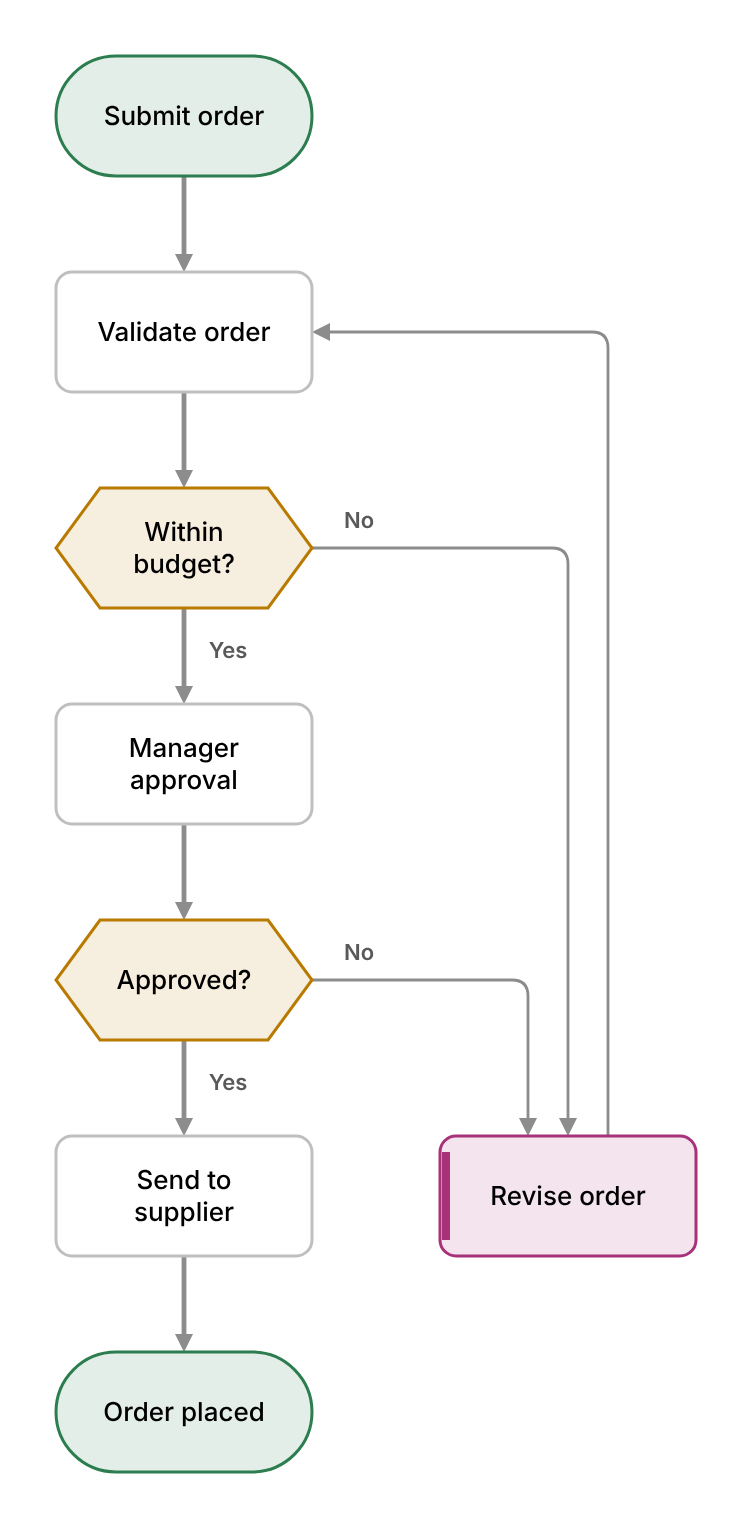
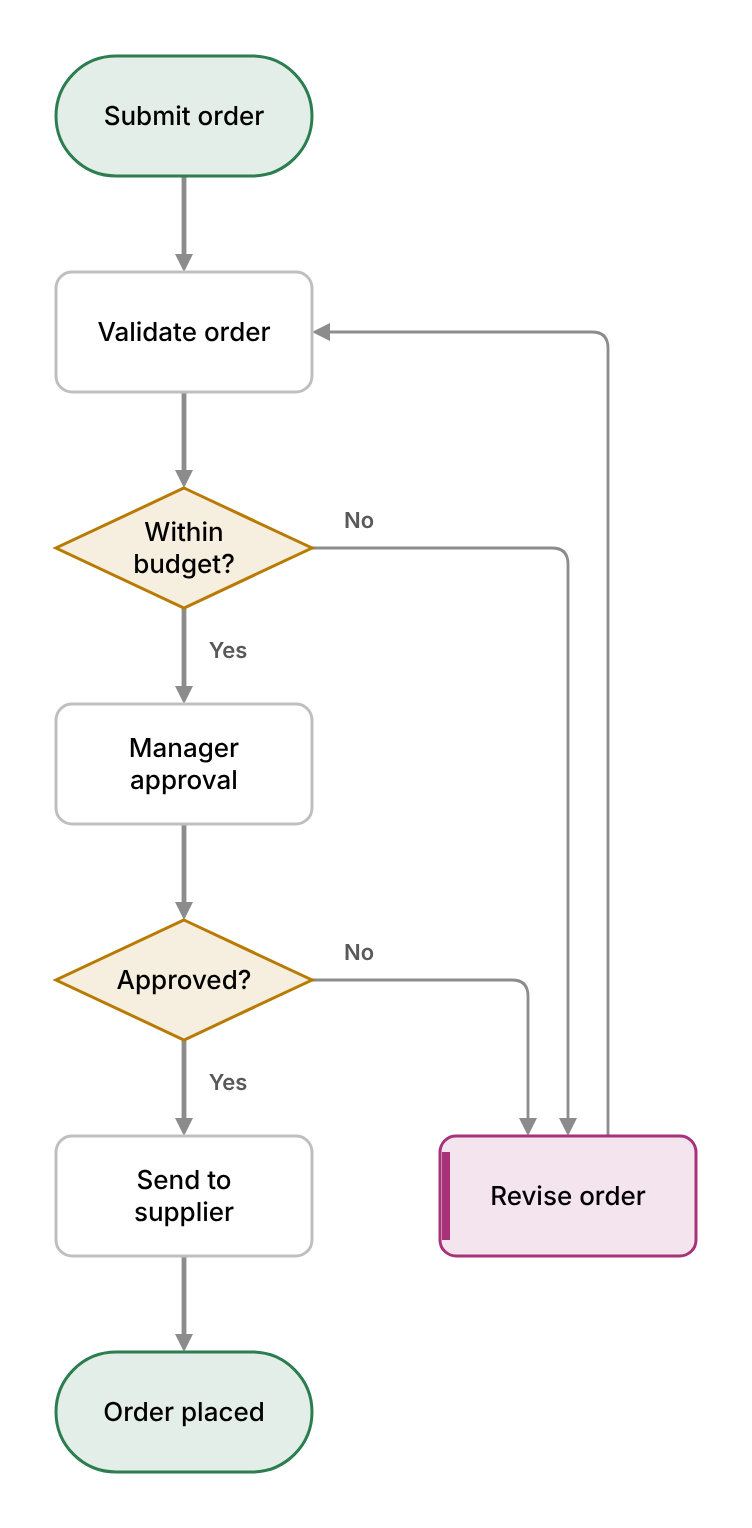
Bring Merlive's page up to what Merlive draws today
Since the page's pictures were taken (victorsaly/merlive at 7c87daf), Merlive
has learnt to draw state diagrams and sequence diagrams, to keep the shape an
author drew, the icons in a label and what a style means, and to read more of
a flowchart. The page still said "flowcharts only".

- The before and after is three rows now, one for each kind it draws: the
  purchase order flowchart, an order's states and the raising of an order as
  a sequence, each as Mermaid 11.16.1 draws it and as Merlive 0.1.0 at
  affce21 does, in the design its --setup read from this site's stylesheet.
  All six pictures carry their origin. The flowchart's decisions are
  rhombuses now, no bigger than the boxes round them.
- The page Merlive wrote for the flowchart is carried again as it writes it
  today.
- A hunk for the three kinds, two lines for shapes, icons and styling, and
  "What it does not do yet" put right: class diagrams, timelines and charts
  are what is left as Mermaid.
- The hub entry and the page's description say what it draws.

Not changed: the mark, the wordmark, DESIGN.md, and the line "Mermaid
flowcharts, placed by rule and made live", which is the skill's own.

Not built here: there is no node_modules and installs are refused, so
`astro check` and the build have not run. Looked at through a stand-in at a
true 390 and at 1200 wide.

Claude-Session: https://claude.ai/code/session_019UYU4aaDk1EijiFUteTqTH

Changed region(s): [[0.0612, 0.5844, 0.4282, 0.7075], [0.0612, 0.3076, 0.4282, 0.3999]]

diff --git a/public/merlive/example/index.html b/public/merlive/example/index.html
@@ -13,6 +13,10 @@
 [data-kind="step"] .mv-shape{fill:var(--mv-kf-step);stroke:var(--mv-k-step)}
 [data-kind="decision"] .mv-shape{fill:var(--mv-kf-decision);stroke:var(--mv-k-decision)}
 [data-kind="rework"] .mv-shape{fill:var(--mv-kf-rework);stroke:var(--mv-k-rework)}
+.mv-node .mv-detail{fill:none}
+[data-outline~="dashed"] .mv-shape{stroke-dasharray:5 4}
+[data-outline~="heavy"] .mv-shape{stroke-width:2.6}
+.mv-icon{fill:none;stroke:var(--mv-text);stroke-width:1.5;stroke-linecap:round;stroke-linejoin:round}
 .mv-node text{font-size:13px;font-weight:500;fill:var(--mv-text);text-anchor:middle}
 .mv-line{fill:none;stroke:var(--mv-edge);stroke-width:1.4}
 .mv-main .mv-line{stroke-width:2.4}
@@ -24,6 +28,7 @@
 [data-style="dotted"] .mv-line{stroke-dasharray:2 5;stroke-linecap:round}
 [data-style="thick"] .mv-line{stroke-width:2.8}
 .mv-head{fill:var(--mv-edge)}
+.mv-cross{fill:none;stroke:var(--mv-edge);stroke-width:1.8;stroke-linecap:round}
 .mv-label{font-size:11px;font-weight:600;fill:var(--mv-muted);text-anchor:middle;paint-order:stroke;stroke:var(--mv-bg);stroke-width:4px;stroke-linejoin:round}
 .mv-group rect{fill:var(--mv-group);stroke:var(--mv-stroke);stroke-width:1;stroke-dasharray:5 4}
 .mv-group text{font-size:11px;font-weight:600;fill:var(--mv-muted);letter-spacing:.04em;text-transform:uppercase}
@@ -66,6 +71,8 @@ summary{cursor:pointer;color:var(--mv-muted);font-size:13px}
 .mv-on .mv-line,.mv-sel .mv-line,.mv-edge:focus-visible .mv-line{stroke:var(--mv-accent);stroke-width:2.6}
 .mv-stage{border-radius:8px;padding:8px 0}
 .mv-on .mv-head,.mv-sel .mv-head{fill:var(--mv-accent)}
+.mv-edge.mv-on .mv-line,.mv-edge.mv-sel .mv-line,.mv-edge.mv-on .mv-cross,.mv-edge.mv-sel .mv-cross{stroke:var(--mv-accent)}
+.mv-edge.mv-on .mv-head,.mv-edge.mv-sel .mv-head{fill:var(--mv-accent)}
 .mv-sel .mv-shape,.mv-node:focus-visible .mv-shape{stroke:var(--mv-accent);stroke-width:3}
 .mv-seq{display:none;pointer-events:none}
 .mv-on .mv-seq{display:block}
@@ -85,7 +92,7 @@ body[data-motion="lively"].mv-playing .mv-on .mv-line{stroke-dasharray:7 6;anima
 <div class="mv-layout">
 <figure class="mv-stage">
 <svg class="mv-svg" viewBox="0 0 376 764" role="group" aria-label="Purchase order approval">
-<g></g><g><g class="mv-edge mv-main" data-edge="A-B" data-style="solid" tabindex="0" role="button" aria-label="Link from Submit order to Validate order"><path class="mv-line" d="M92,88L92,129"/><polygon class="mv-head" points="92,136 96.5,127 87.5,127"/><path class="mv-hit" d="M92,88L92,136"/><g class="mv-seq" transform="translate(92,112)"><circle r="8"/><text y="3.5"></text></g></g><g class="mv-edge mv-main" data-edge="B-C" data-style="solid" tabindex="0" role="button" aria-label="Link from Validate order to Within budget?"><path class="mv-line" d="M92,196L92,237"/><polygon class="mv-head" points="92,244 96.5,235 87.5,235"/><path class="mv-hit" d="M92,196L92,244"/><g class="mv-seq" transform="translate(92,220)"><circle r="8"/><text y="3.5"></text></g></g><g class="mv-edge mv-main" data-edge="C-D" data-style="solid" tabindex="0" role="button" aria-label="Link from Within budget? to Manager approval, Yes"><path class="mv-line" d="M92,304L92,345"/><polygon class="mv-head" points="92,352 96.5,343 87.5,343"/><text class="mv-label"><tspan class="mv-label-line" x="114" y="329">Yes</tspan></text><path class="mv-hit" d="M92,304L92,352"/><g class="mv-seq" transform="translate(92,328)"><circle r="8"/><text y="3.5"></text></g></g><g class="mv-edge" data-edge="C-E" data-style="solid" tabindex="0" role="button" aria-label="Link from Within budget? to Revise order, No"><path class="mv-line" d="M156,274L276,274Q284,274 284,282L284,561"/><polygon class="mv-head" points="284,568 288.5,559 279.5,559"/><text class="mv-label"><tspan class="mv-label-line" x="179.5" y="264">No</tspan></text><path class="mv-hit" d="M156,274L276,274Q284,274 284,282L284,568"/><g class="mv-seq" transform="translate(284,357)"><circle r="8"/><text y="3.5"></text></g></g><g class="mv-edge" data-edge="E-B" data-style="solid" tabindex="0" role="button" aria-label="Link from Revise order to Validate order"><path class="mv-line" d="M304,568L304,174Q304,166 296,166L163,166"/><polygon class="mv-head" points="156,166 165,170.5 165,161.5"/><path class="mv-hit" d="M304,568L304,174Q304,166 296,166L156,166"/><g class="mv-seq" transform="translate(304,293)"><circle r="8"/><text y="3.5"></text></g></g><g class="mv-edge mv-main" data-edge="D-F" data-style="solid" tabindex="0" role="button" aria-label="Link from Manager approval to Approved?"><path class="mv-line" d="M92,412L92,453"/><polygon class="mv-head" points="92,460 96.5,451 87.5,451"/><path class="mv-hit" d="M92,412L92,460"/><g class="mv-seq" transform="translate(92,436)"><circle r="8"/><text y="3.5"></text></g></g><g class="mv-edge mv-main" data-edge="F-G" data-style="solid" tabindex="0" role="button" aria-label="Link from Approved? to Send to supplier, Yes"><path class="mv-line" d="M92,520L92,561"/><polygon class="mv-head" points="92,568 96.5,559 87.5,559"/><text class="mv-label"><tspan class="mv-label-line" x="114" y="545">Yes</tspan></text><path class="mv-hit" d="M92,520L92,568"/><g class="mv-seq" transform="translate(92,544)"><circle r="8"/><text y="3.5"></text></g></g><g class="mv-edge" data-edge="F-E" data-style="solid" tabindex="0" role="button" aria-label="Link from Approved? to Revise order, No"><path class="mv-line" d="M156,490L256,490Q264,490 264,498L264,561"/><polygon class="mv-head" points="264,568 268.5,559 259.5,559"/><text class="mv-label"><tspan class="mv-label-line" x="179.5" y="480">No</tspan></text><path class="mv-hit" d="M156,490L256,490Q264,490 264,498L264,568"/><g class="mv-seq" transform="translate(249,490)"><circle r="8"/><text y="3.5"></text></g></g><g class="mv-edge mv-main" data-edge="G-H" data-style="solid" tabindex="0" role="button" aria-label="Link from Send to supplier to Order placed"><path class="mv-line" d="M92,628L92,669"/><polygon class="mv-head" points="92,676 96.5,667 87.5,667"/><path class="mv-hit" d="M92,628L92,676"/><g class="mv-seq" transform="translate(92,652)"><circle r="8"/><text y="3.5"></text></g></g></g><g><g class="mv-node" data-node="A" data-kind="terminal" tabindex="0" role="button" aria-label="Submit order, Start or end"><rect class="mv-shape mv-pill" x="28" y="28" width="128" height="60" rx="30"/><text><tspan x="92" y="62.5">Submit order</tspan></text></g><g class="mv-node" data-node="B" data-kind="step" tabindex="0" role="button" aria-label="Validate order, Step"><rect class="mv-shape" x="28" y="136" width="128" height="60" rx="8"/><text><tspan x="92" y="170.5">Validate order</tspan></text></g><g class="mv-node" data-node="C" data-kind="decision" tabindex="0" role="button" aria-label="Within budget?, Decision"><polygon class="mv-shape" points="50,244 134,244 156,274 134,304 50,304 28,274"/><text><tspan x="92" y="270.5">Within</tspan><tspan x="92" y="286.5">budget?</tspan></text></g><g class="mv-node" data-node="D" data-kind="step" tabindex="0" role="button" aria-label="Manager approval, Step"><rect class="mv-shape" x="28" y="352" width="128" height="60" rx="8"/><text><tspan x="92" y="378.5">Manager</tspan><tspan x="92" y="394.5">approval</tspan></text></g><g class="mv-node" data-node="E" data-kind="rework" tabindex="0" role="button" aria-label="Revise order, Rework"><rect class="mv-shape" x="220" y="568" width="128" height="60" rx="8"/><rect class="mv-stripe" x="221" y="576" width="4" height="44"/><text><tspan x="284" y="602.5">Revise order</tspan></text></g><g class="mv-node" data-node="F" data-kind="decision" tabindex="0" role="button" aria-label="Approved?, Decision"><polygon class="mv-shape" points="50,460 134,460 156,490 134,520 50,520 28,490"/><text><tspan x="92" y="494.5">Approved?</tspan></text></g><g class="mv-node" data-node="G" data-kind="step" tabindex="0" role="button" aria-label="Send to supplier, Step"><rect class="mv-shape" x="28" y="568" width="128" height="60" rx="8"/><text><tspan x="92" y="594.5">Send to</tspan><tspan x="92" y="610.5">supplier</tspan></text></g><g class="mv-node" data-node="H" data-kind="terminal" tabindex="0" role="button" aria-label="Order placed, Start or end"><rect class="mv-shape mv-pill" x="28" y="676" width="128" height="60" rx="30"/><text><tspan x="92" y="710.5">Order placed</tspan></text></g></g>
+<g></g><g><g class="mv-edge mv-main" data-edge="A-B" data-style="solid" tabindex="0" role="button" aria-label="Link from Submit order to Validate order"><path class="mv-line" d="M92,88L92,129"/><polygon class="mv-head" points="92,136 96.5,127 87.5,127"/><path class="mv-hit" d="M92,88L92,136"/><g class="mv-seq" transform="translate(92,112)"><circle r="8"/><text y="3.5"></text></g></g><g class="mv-edge mv-main" data-edge="B-C" data-style="solid" tabindex="0" role="button" aria-label="Link from Validate order to Within budget?"><path class="mv-line" d="M92,196L92,237"/><polygon class="mv-head" points="92,244 96.5,235 87.5,235"/><path class="mv-hit" d="M92,196L92,244"/><g class="mv-seq" transform="translate(92,220)"><circle r="8"/><text y="3.5"></text></g></g><g class="mv-edge mv-main" data-edge="C-D" data-style="solid" tabindex="0" role="button" aria-label="Link from Within budget? to Manager approval, Yes"><path class="mv-line" d="M92,304L92,345"/><polygon class="mv-head" points="92,352 96.5,343 87.5,343"/><text class="mv-label"><tspan class="mv-label-line" x="114" y="329">Yes</tspan></text><path class="mv-hit" d="M92,304L92,352"/><g class="mv-seq" transform="translate(92,328)"><circle r="8"/><text y="3.5"></text></g></g><g class="mv-edge" data-edge="C-E" data-style="solid" tabindex="0" role="button" aria-label="Link from Within budget? to Revise order, No"><path class="mv-line" d="M156,274L276,274Q284,274 284,282L284,561"/><polygon class="mv-head" points="284,568 288.5,559 279.5,559"/><text class="mv-label"><tspan class="mv-label-line" x="179.5" y="264">No</tspan></text><path class="mv-hit" d="M156,274L276,274Q284,274 284,282L284,568"/><g class="mv-seq" transform="translate(284,357)"><circle r="8"/><text y="3.5"></text></g></g><g class="mv-edge" data-edge="E-B" data-style="solid" tabindex="0" role="button" aria-label="Link from Revise order to Validate order"><path class="mv-line" d="M304,568L304,174Q304,166 296,166L163,166"/><polygon class="mv-head" points="156,166 165,170.5 165,161.5"/><path class="mv-hit" d="M304,568L304,174Q304,166 296,166L156,166"/><g class="mv-seq" transform="translate(304,293)"><circle r="8"/><text y="3.5"></text></g></g><g class="mv-edge mv-main" data-edge="D-F" data-style="solid" tabindex="0" role="button" aria-label="Link from Manager approval to Approved?"><path class="mv-line" d="M92,412L92,453"/><polygon class="mv-head" points="92,460 96.5,451 87.5,451"/><path class="mv-hit" d="M92,412L92,460"/><g class="mv-seq" transform="translate(92,436)"><circle r="8"/><text y="3.5"></text></g></g><g class="mv-edge mv-main" data-edge="F-G" data-style="solid" tabindex="0" role="button" aria-label="Link from Approved? to Send to supplier, Yes"><path class="mv-line" d="M92,520L92,561"/><polygon class="mv-head" points="92,568 96.5,559 87.5,559"/><text class="mv-label"><tspan class="mv-label-line" x="114" y="545">Yes</tspan></text><path class="mv-hit" d="M92,520L92,568"/><g class="mv-seq" transform="translate(92,544)"><circle r="8"/><text y="3.5"></text></g></g><g class="mv-edge" data-edge="F-E" data-style="solid" tabindex="0" role="button" aria-label="Link from Approved? to Revise order, No"><path class="mv-line" d="M156,490L256,490Q264,490 264,498L264,561"/><polygon class="mv-head" points="264,568 268.5,559 259.5,559"/><text class="mv-label"><tspan class="mv-label-line" x="179.5" y="480">No</tspan></text><path class="mv-hit" d="M156,490L256,490Q264,490 264,498L264,568"/><g class="mv-seq" transform="translate(249,490)"><circle r="8"/><text y="3.5"></text></g></g><g class="mv-edge mv-main" data-edge="G-H" data-style="solid" tabindex="0" role="button" aria-label="Link from Send to supplier to Order placed"><path class="mv-line" d="M92,628L92,669"/><polygon class="mv-head" points="92,676 96.5,667 87.5,667"/><path class="mv-hit" d="M92,628L92,676"/><g class="mv-seq" transform="translate(92,652)"><circle r="8"/><text y="3.5"></text></g></g></g><g><g class="mv-node" data-node="A" data-kind="terminal" tabindex="0" role="button" aria-label="Submit order, Start or end"><rect class="mv-shape mv-pill" x="28" y="28" width="128" height="60" rx="30"/><text><tspan x="92" y="62.5">Submit order</tspan></text></g><g class="mv-node" data-node="B" data-kind="step" tabindex="0" role="button" aria-label="Validate order, Step"><rect class="mv-shape" x="28" y="136" width="128" height="60" rx="8"/><text><tspan x="92" y="170.5">Validate order</tspan></text></g><g class="mv-node" data-node="C" data-kind="decision" tabindex="0" role="button" aria-label="Within budget?, Decision"><polygon class="mv-shape" points="92,244 156,274 92,304 28,274"/><text><tspan x="92" y="270.5">Within</tspan><tspan x="92" y="286.5">budget?</tspan></text></g><g class="mv-node" data-node="D" data-kind="step" tabindex="0" role="button" aria-label="Manager approval, Step"><rect class="mv-shape" x="28" y="352" width="128" height="60" rx="8"/><text><tspan x="92" y="378.5">Manager</tspan><tspan x="92" y="394.5">approval</tspan></text></g><g class="mv-node" data-node="E" data-kind="rework" tabindex="0" role="button" aria-label="Revise order, Rework"><rect class="mv-shape" x="220" y="568" width="128" height="60" rx="8"/><rect class="mv-stripe" x="221" y="576" width="4" height="44"/><text><tspan x="284" y="602.5">Revise order</tspan></text></g><g class="mv-node" data-node="F" data-kind="decision" tabindex="0" role="button" aria-label="Approved?, Decision"><polygon class="mv-shape" points="92,460 156,490 92,520 28,490"/><text><tspan x="92" y="494.5">Approved?</tspan></text></g><g class="mv-node" data-node="G" data-kind="step" tabindex="0" role="button" aria-label="Send to supplier, Step"><rect class="mv-shape" x="28" y="568" width="128" height="60" rx="8"/><text><tspan x="92" y="594.5">Send to</tspan><tspan x="92" y="610.5">supplier</tspan></text></g><g class="mv-node" data-node="H" data-kind="terminal" tabindex="0" role="button" aria-label="Order placed, Start or end"><rect class="mv-shape mv-pill" x="28" y="676" width="128" height="60" rx="30"/><text><tspan x="92" y="710.5">Order placed</tspan></text></g></g>
 <g id="mv-dot" style="display:none"><circle r="6"/></g>
 </svg>
 <figcaption class="mv-legend"><span><i style="border-color:var(--mv-k-terminal);background:var(--mv-kf-terminal)"></i>Start or end</span><span><i style="border-color:var(--mv-k-step);background:var(--mv-kf-step)"></i>Step</span><span><i style="border-color:var(--mv-k-decision);background:var(--mv-kf-decision)"></i>Decision</span><span><i style="border-color:var(--mv-k-rework);background:var(--mv-kf-rework)"></i>Rework</span></figcaption>

diff --git a/src/content/skills/merlive.md b/src/content/skills/merlive.md
@@ -1,7 +1,7 @@
 ---
 name: Merlive
 tagline: Mermaid flowcharts, placed by rule and made live.
-summary: Turns the Mermaid flowcharts in your Markdown into diagrams that look planned, in your own colours, that readers can step through. The Mermaid stays the source. Version 0.1.0, not released yet, and flowcharts only for now.
+summary: Turns the Mermaid in your Markdown into diagrams that look planned, in your own colours, that readers can step through. It draws flowcharts, state diagrams and sequence diagrams. The Mermaid stays the source. Version 0.1.0, not released yet.
 repo: https://github.com/victorsaly/merlive
 install: npx skills add victorsaly/merlive -g
 order: 3
